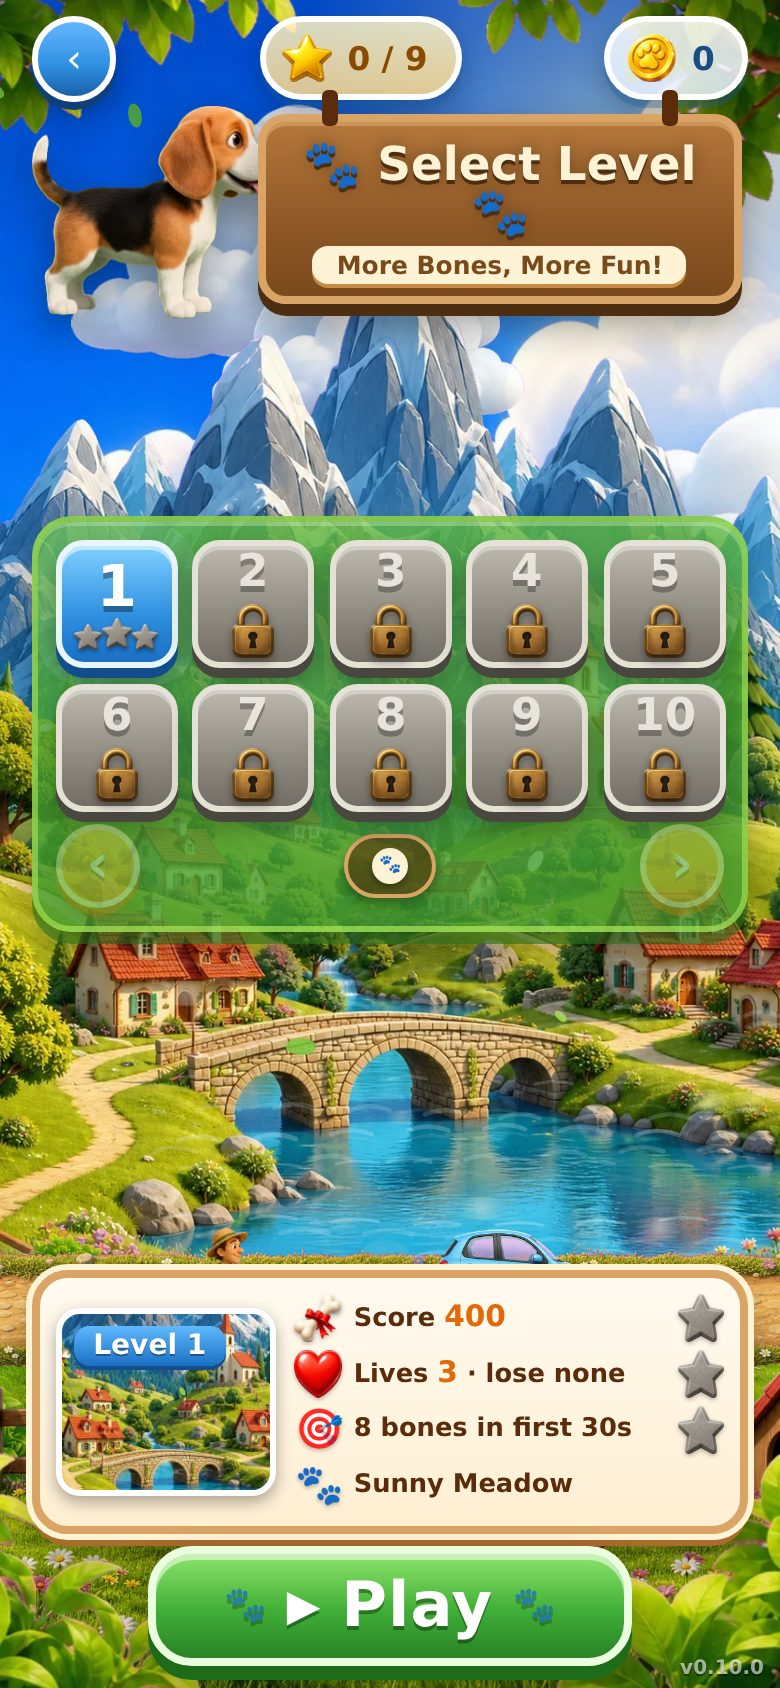
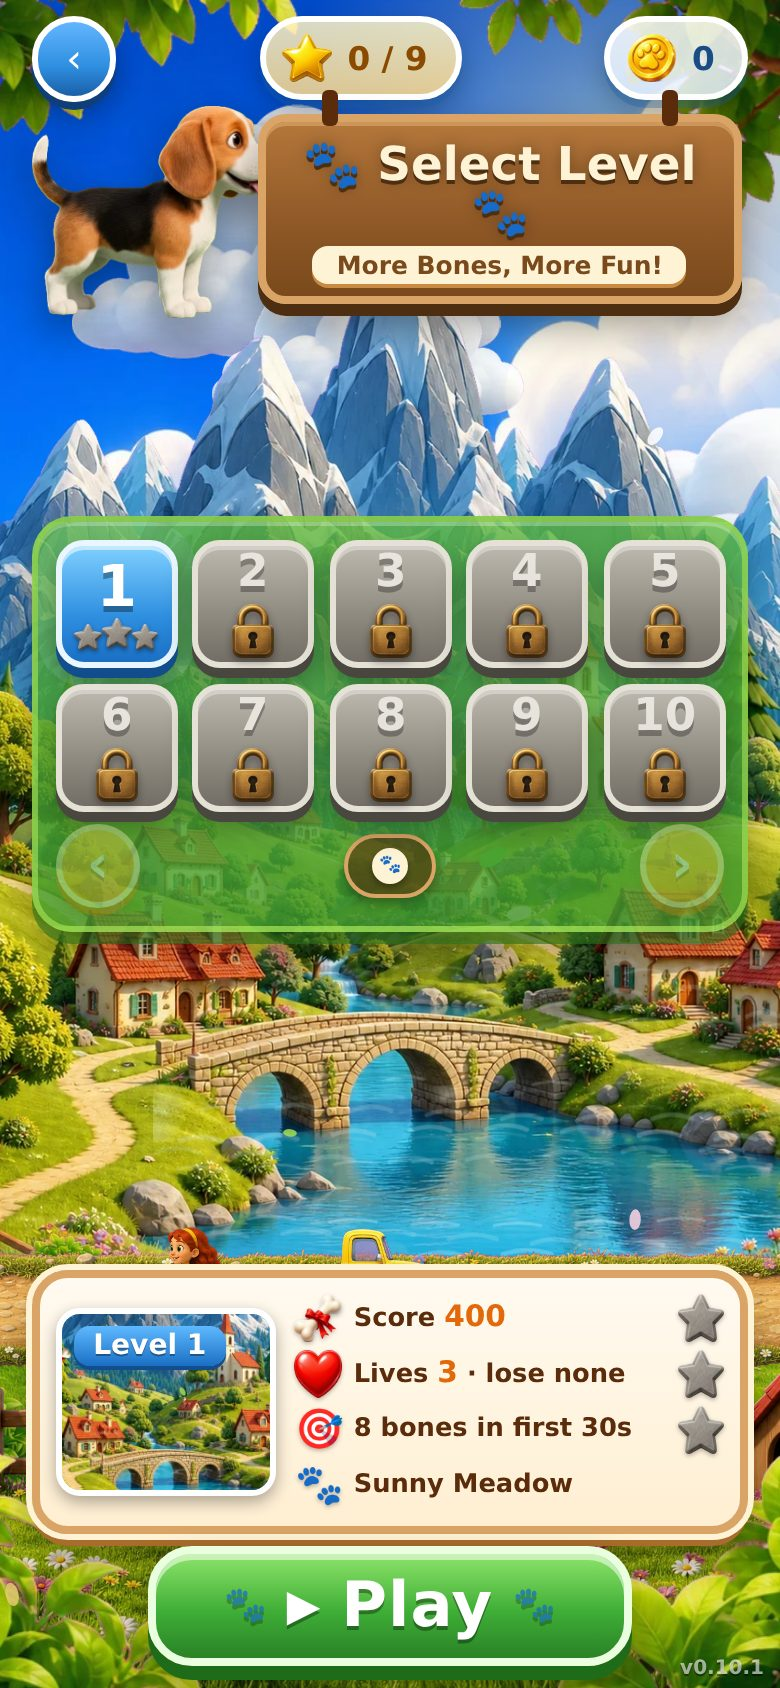
v0.10.1 — home menu refresh: sticker tagline, aligned button column + labelled dock

diff --git a/index.html b/index.html
@@ -5,7 +5,7 @@
 <meta name="viewport" content="width=device-width, initial-scale=1.0, maximum-scale=1.0, user-scalable=no, viewport-fit=cover">
 <meta name="theme-color" content="#2f8fe0">
 <title>BONK! — Catch. Dodge. Don't get bonked.</title>
-<link rel="stylesheet" href="styles/main.css?v=0.10.0">
+<link rel="stylesheet" href="styles/main.css?v=0.10.1">
 </head>
 <body>
 <div id="backdrop"></div>
@@ -22,17 +22,19 @@
     </div>
     <div class="logo-wrap">
       <img class="logo" src="assets/images/brand/logo.webp" alt="BONK!" draggable="false">
-      <div class="tagline">Catch. Dodge. <em>Don't get bonked.</em></div>
+      <div class="tagline">Catch. Dodge. <em>Don't get bonked!</em></div>
     </div>
-    <div class="menu">
-      <button class="btn btn-primary pulse" id="btnPlay"><span>▶ PLAY</span><small id="btnPlaySub">Level 1</small></button>
-      <button class="btn btn-wood" id="btnLevels"><img src="assets/images/ui/star_gold.webp" alt=""><span>LEVELS</span><b id="menuStars">0/9</b></button>
-      <div class="btn-row">
-        <button class="btn btn-sec" id="btnHow" title="How to play">❓</button>
-        <button class="btn btn-sec" id="btnShop" title="Shop">🛍</button>
-        <button class="btn btn-sec" id="btnBoard" title="Leaderboard">🏆</button>
-        <button class="btn btn-sec" id="btnSound" title="Sound">🔊</button>
+    <div class="menu-bottom">
+      <div class="menu">
+        <button class="btn btn-primary pulse" id="btnPlay"><span>▶ PLAY</span><small id="btnPlaySub">Level 1</small></button>
+        <button class="btn btn-wood" id="btnLevels"><img src="assets/images/ui/star_gold.webp" alt=""><span>LEVELS</span><b id="menuStars">0/9</b></button>
       </div>
+      <nav class="dock">
+        <div class="dock-item"><button class="btn btn-sec" id="btnHow" title="How to play">❓</button><span>Help</span></div>
+        <div class="dock-item"><button class="btn btn-sec" id="btnShop" title="Shop">🛍</button><span>Shop</span></div>
+        <div class="dock-item"><button class="btn btn-sec" id="btnBoard" title="Leaderboard">🏆</button><span>Ranks</span></div>
+        <div class="dock-item"><button class="btn btn-sec" id="btnSound" title="Sound">🔊</button><span>Sound</span></div>
+      </nav>
     </div>
   </div>
 
@@ -190,36 +192,36 @@
 </div>
 
 <!-- core -->
-<script src="src/core/config.js?v=0.10.0"></script>
-<script src="src/core/events.js?v=0.10.0"></script>
-<script src="src/core/flags.js?v=0.10.0"></script>
-<script src="src/core/analytics.js?v=0.10.0"></script>
-<script src="src/core/save.js?v=0.10.0"></script>
-<script src="src/core/wallet.js?v=0.10.0"></script>
-<script src="src/core/storage.js?v=0.10.0"></script>
-<script src="src/core/assets.js?v=0.10.0"></script>
-<script src="src/core/audio.js?v=0.10.0"></script>
-<script src="src/core/input.js?v=0.10.0"></script>
-<script src="src/net/leaderboard.js?v=0.10.0"></script>
+<script src="src/core/config.js?v=0.10.1"></script>
+<script src="src/core/events.js?v=0.10.1"></script>
+<script src="src/core/flags.js?v=0.10.1"></script>
+<script src="src/core/analytics.js?v=0.10.1"></script>
+<script src="src/core/save.js?v=0.10.1"></script>
+<script src="src/core/wallet.js?v=0.10.1"></script>
+<script src="src/core/storage.js?v=0.10.1"></script>
+<script src="src/core/assets.js?v=0.10.1"></script>
+<script src="src/core/audio.js?v=0.10.1"></script>
+<script src="src/core/input.js?v=0.10.1"></script>
+<script src="src/net/leaderboard.js?v=0.10.1"></script>
 <!-- game data -->
-<script src="src/game/items.js?v=0.10.0"></script>
-<script src="src/game/goals.js?v=0.10.0"></script>
-<script src="src/game/levels.js?v=0.10.0"></script>
+<script src="src/game/items.js?v=0.10.1"></script>
+<script src="src/game/goals.js?v=0.10.1"></script>
+<script src="src/game/levels.js?v=0.10.1"></script>
 <!-- game systems -->
-<script src="src/game/ambient.js?v=0.10.0"></script>
-<script src="src/game/background.js?v=0.10.0"></script>
-<script src="src/game/effects.js?v=0.10.0"></script>
-<script src="src/game/puppy.js?v=0.10.0"></script>
-<script src="src/game/spawner.js?v=0.10.0"></script>
-<script src="src/game/game.js?v=0.10.0"></script>
-<script src="src/game/ftue.js?v=0.10.0"></script>
+<script src="src/game/ambient.js?v=0.10.1"></script>
+<script src="src/game/background.js?v=0.10.1"></script>
+<script src="src/game/effects.js?v=0.10.1"></script>
+<script src="src/game/puppy.js?v=0.10.1"></script>
+<script src="src/game/spawner.js?v=0.10.1"></script>
+<script src="src/game/game.js?v=0.10.1"></script>
+<script src="src/game/ftue.js?v=0.10.1"></script>
 <!-- ui + scenes -->
-<script src="src/ui/hud.js?v=0.10.0"></script>
-<script src="src/ui/modals.js?v=0.10.0"></script>
-<script src="src/scenes/menu.js?v=0.10.0"></script>
-<script src="src/scenes/map.js?v=0.10.0"></script>
-<script src="src/scenes/play.js?v=0.10.0"></script>
+<script src="src/ui/hud.js?v=0.10.1"></script>
+<script src="src/ui/modals.js?v=0.10.1"></script>
+<script src="src/scenes/menu.js?v=0.10.1"></script>
+<script src="src/scenes/map.js?v=0.10.1"></script>
+<script src="src/scenes/play.js?v=0.10.1"></script>
 <!-- bootstrap -->
-<script src="src/app.js?v=0.10.0"></script>
+<script src="src/app.js?v=0.10.1"></script>
 </body>
 </html>

diff --git a/styles/menu.css b/styles/menu.css
@@ -1,7 +1,16 @@
 /* BONK! — menu scene */
 .logo-wrap{display:flex;flex-direction:column;align-items:center;animation:logoIn .9s cubic-bezier(.2,1.5,.4,1) both}
-.logo{width:min(72cqw,40cqh);height:auto;filter:drop-shadow(0 10px 18px #0006);animation:float 3.6s ease-in-out infinite}
-.tagline{margin-top:-2%;font-weight:900;font-size:clamp(15px,4.6cqmin,26px);color:#fff;
-         text-shadow:0 2px 0 #1a5fa8,0 0 12px #0008,2px 2px 0 #1a5fa8,-2px 2px 0 #1a5fa8,2px -2px 0 #1a5fa8,-2px -2px 0 #1a5fa8}
-.tagline em{font-style:normal;color:#ffe45c}
-.menu{display:flex;flex-direction:column;align-items:center;gap:clamp(8px,2cqmin,14px);width:100%;padding-left:34%;animation:menuIn .8s .25s cubic-bezier(.2,1.4,.4,1) both}
+.logo{width:min(66cqw,36cqh);height:auto;filter:drop-shadow(0 10px 18px #0006);animation:float 3.6s ease-in-out infinite}
+/* sticker-style tagline: cream pill, wood border, slight tilt */
+.tagline{margin-top:-3%;font-weight:900;font-size:clamp(13px,3.9cqmin,20px);color:#5a2c0b;background:linear-gradient(#fffdf7,#ffe9c4);
+         border:3px solid #c98a44;outline:2px solid #fff6;border-radius:999px;padding:4px 16px;transform:rotate(-2deg);box-shadow:0 4px 0 #a86c2c88,0 6px 14px #0004;white-space:nowrap}
+.tagline em{font-style:normal;color:#e2680a}
+/* bottom block: PLAY/LEVELS to the right of the puppy, then a full-width dock of labelled icon buttons */
+.menu-bottom{width:100%;display:flex;flex-direction:column;align-items:flex-end;padding-bottom:clamp(10px,2.4cqmin,18px);gap:clamp(8px,2.2cqmin,14px);animation:menuIn .8s .25s cubic-bezier(.2,1.4,.4,1) both}
+.dock{width:68%;display:flex;justify-content:space-around;align-items:flex-start;padding:clamp(5px,1.4cqmin,9px) 2% 2px;border-radius:22px;
+      background:linear-gradient(#fff6e5e6,#ffe6bde6);border:3px solid #fff;box-shadow:0 5px 0 #c98a4488,0 8px 18px #0004;backdrop-filter:blur(4px)}
+.dock-item{display:flex;flex-direction:column;align-items:center;gap:2px}
+.dock-item span{font-weight:900;font-size:clamp(9px,2.6cqmin,12px);color:#8a4b00;letter-spacing:.3px}
+.dock .btn-sec{width:clamp(40px,11cqmin,56px);height:clamp(40px,11cqmin,56px);font-size:clamp(17px,4.8cqmin,26px);box-shadow:0 4px 0 #0f3f7a,0 6px 12px #0004}
+.dock .btn-sec:active{transform:translateY(3px);box-shadow:0 1px 0 #0f3f7a,0 3px 8px #0004}
+.menu{display:flex;flex-direction:column;align-items:center;gap:clamp(8px,2cqmin,14px);width:68%}

diff --git a/src/scenes/menu.js b/src/scenes/menu.js
@@ -15,7 +15,7 @@ const MenuScene = (() => {
     const pw = Math.min(W * .30, H * .20), ph = pw * fh / fw;
     const fi = Math.floor(t * 12) % N;              // 24-frame breathing loop from the clip, 12 fps
     const breathe = 1;
-    const x = W * .10 - ax * .6, gy = H * .91 - ay * .3;
+    const x = W * .02 - ax * .6, gy = H * .935 - ay * .3;   // front grass, bottom-left, beside the button column
     c.fillStyle = 'rgba(20,60,10,.28)'; c.beginPath(); c.ellipse(x + pw / 2, gy + 2, pw * .36, pw * .08, 0, 0, 6.28); c.fill();
     c.save(); c.translate(x + pw / 2, gy); c.scale(breathe, 2 - breathe);
     c.drawImage(sheet, fi * fw, 0, fw, fh, -pw / 2, -ph, pw, ph); c.restore();

diff --git a/styles/main.css b/styles/main.css
@@ -1,6 +1,6 @@
 /* BONK! — stylesheet entry point (import order matters) */
-@import url("base.css?v=0.10.0");
-@import url("menu.css?v=0.10.0");
-@import url("hud.css?v=0.10.0");
-@import url("modals.css?v=0.10.0");
-@import url("map.css?v=0.10.0");
+@import url("base.css?v=0.10.1");
+@import url("menu.css?v=0.10.1");
+@import url("hud.css?v=0.10.1");
+@import url("modals.css?v=0.10.1");
+@import url("map.css?v=0.10.1");

diff --git a/src/core/config.js b/src/core/config.js
@@ -6,7 +6,7 @@
  * Item definitions live in src/game/items.js
  */
 const CONFIG = Object.freeze({
-  VERSION: '0.10.0',
+  VERSION: '0.10.1',
   STORAGE_PREFIX: 'bonk_',
 
   /** Player (puppy) */

diff --git a/README.md b/README.md
@@ -3,7 +3,7 @@
 A polished 2D catch-and-dodge mobile web game with a Pixar-style parallax world.
 Move the puppy left/right, catch bones and coins, grab power-ups, and dodge falling rocks and bombs.
 
-**Version:** 0.10.0 · **Stack:** vanilla HTML5 Canvas + JS + CSS (no build step, no dependencies)
+**Version:** 0.10.1 · **Stack:** vanilla HTML5 Canvas + JS + CSS (no build step, no dependencies)
 
 ![BONK! gameplay](docs/screenshots/00_overview.jpg)
 
